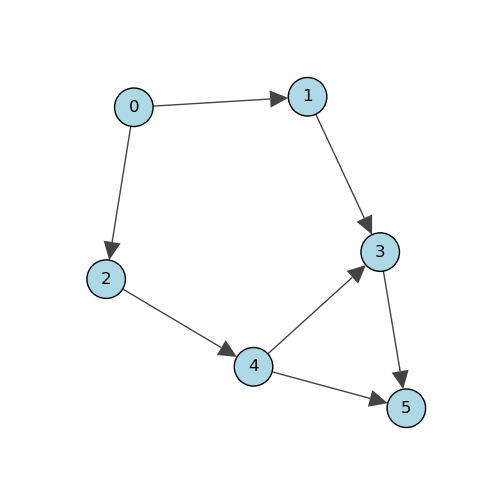
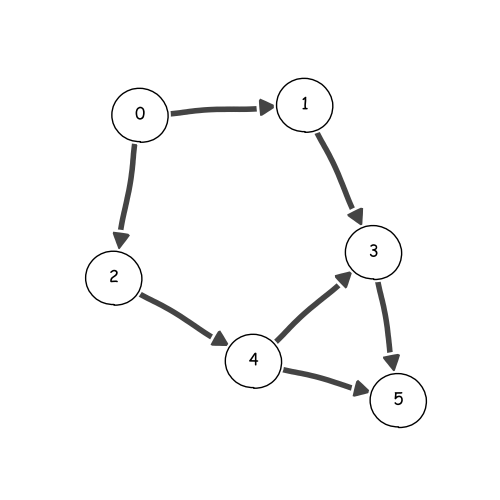
Many fixes

Changed region(s): [[0.15, 0.15, 0.87, 0.87]]

diff --git a/doc/source/tutorials/topological_sort/assets/topological_sort.py b/doc/source/tutorials/topological_sort/assets/topological_sort.py
@@ -3,34 +3,33 @@ import matplotlib.pyplot as plt
 
 
 # generate a directed acyclic graph (DAG)
-g = ig.Graph(edges=[(0, 1), (0, 2), (1, 3), (2, 4), (4, 3), (3, 5), (4, 5)], 
-            directed=True)
+g = ig.Graph(
+    edges=[(0, 1), (0, 2), (1, 3), (2, 4), (4, 3), (3, 5), (4, 5)], 
+    directed=True,
+)
 assert g.is_dag
     
 # g.topological_sorting() returns a list of node IDs.
 # If the given graph is not DAG, the error will occur.
 results = g.topological_sorting(mode='out')
-print('Topological sort of graph g (out):', *results)
+print('Topological sort of g (out):', *results)
 
 results = g.topological_sorting(mode='in')
-print('Topological sort of graph g (in):', *results)
+print('Topological sort of g (in):', *results)
 
 # g.vs[i].indegree() returns the indegree of the node.
 for i in range(g.vcount()):
     print('degree of {}: {}'.format(i, g.vs[i].indegree()))
 
 # visualization
-fig, ax = plt.subplots(figsize=(5, 5))
-ig.plot(
-        g,
-        target=ax,
-        layout='kk',
-        vertex_size=0.2,
-        edge_width=1,
-        vertex_label=range(g.vcount()),
-        vertex_color="lightblue",
-    )
-ax.set_aspect(1)
-
-plt.axis('off')
-plt.show()
+with plt.xkcd():
+    fig, ax = plt.subplots(figsize=(5, 5))
+    ig.plot(
+            g,
+            target=ax,
+            layout='kk',
+            vertex_size=0.3,
+            edge_width=4,
+            vertex_label=range(g.vcount()),
+            vertex_color="white",
+        )

diff --git a/doc/source/tutorials/topological_sort/topological_sort.rst b/doc/source/tutorials/topological_sort/topological_sort.rst
@@ -1,41 +1,44 @@
 .. include:: include/global.rst
 
-.. tutorials-topological-sort
+.. _tutorials-topological-sort:
 
-================
-Topological Sort
-================
+===================
+Topological sorting
+===================
 
-This example demonstrates how to get a topological sorting on a directed acyclic graph (DAG).
-Topological sort of a directed graph is a linear ordering based on the precedence implied by the directed edges and it exists iff the graph doesn't have any directed cycle.
+.. _topological_sorting: https://igraph.org/python/doc/api/igraph._igraph.GraphBase.html#topological_sorting
+.. |topological_sorting| replace:: :meth:`topological_sorting`
 
-We can use :meth:`topological_sortng` to get a topological ordering.
+
+This example demonstrates how to get a topological sorting on a directed acyclic graph (DAG). A topological sorting of a directed graph is a linear ordering based on the precedence implied by the directed edges. It exists iff the graph doesn't have any cycle. In ``igraph``, we can use |topological_sorting|_ to get a topological ordering of the vertices.
 
 .. code-block:: python
 
     import igraph as ig
     
     # generate a directed acyclic graph (DAG)
-    g = ig.Graph(edges=[(0, 1), (0, 2), (1, 3), (2, 4), (4, 3), (3, 5), (4, 5)], 
-                directed=True)
+    g = ig.Graph(
+        edges=[(0, 1), (0, 2), (1, 3), (2, 4), (4, 3), (3, 5), (4, 5)], 
+        directed=True,
+    )
     assert g.is_dag
 
     # g.topological_sorting() returns a list of node IDs
     # If the given graph is not DAG, the error will occur.
     results = g.topological_sorting(mode='out')
-    print('Topological sort of graph g (out):', *results)
+    print('Topological sort of g (out):', *results)
 
     results = g.topological_sorting(mode='in')
-    print('Topological sort of graph g (in):', *results)
+    print('Topological sort of g (in):', *results)
 
-There are two modes of :meth:topological_sorting. 'out' is the default mode which starts from a node with indegree equal to 0. The other mode is 'in', and it similarly starts from a node with outdegree equal to 0.
+There are two modes o |topological_sorting|_. ``'out'`` is the default mode which starts from a node with indegree equal to 0. Vice versa, the mode ``'in'`` starts from a node with outdegree equal to 0.
 
 The output of the code above is:
 
 .. code-block::
 
-    Topological sort of graph g (out): 0 1 2 4 3 5
-    Topological sort of graph g (in): 5 3 1 4 2 0
+    Topological sort of g (out): 0 1 2 4 3 5
+    Topological sort of g (in): 5 3 1 4 2 0
 
 
 We can use :meth:`indegree()` to find the indegree of the node.
@@ -62,15 +65,12 @@ We can use :meth:`indegree()` to find the indegree of the node.
     '''
 
 .. figure:: ./figures/topological_sort.png
-   :alt: The visual representation of a directed acyclic graph(DAG)
+   :alt: Topological sort of a directed acyclic graph (DAG)
    :align: center
 
-   The graph `g`
+   The graph `g` with topological sorting.
 
-- :meth:`topological_sorting` returns a list of node IDs.
-- We can set two modes as a parameter.
-
-For generating the visualization figure, here's the code:
+We can easily plot our topologically sorted graph as follows:
 
 .. code-block:: python
 
@@ -79,20 +79,20 @@ For generating the visualization figure, here's the code:
 
 
     # generate a directed acyclic graph (DAG)
-    g = ig.Graph(edges=[(0, 1), (0, 2), (1, 3), (2, 4), (4, 3), (3, 5), (4, 5)], 
-                directed=True)
+    g = ig.Graph(
+        edges=[(0, 1), (0, 2), (1, 3), (2, 4), (4, 3), (3, 5), (4, 5)], 
+        directed=True,
+    )
     
-    fig, ax = plt.subplots(figsize=(5, 5))
-    ig.plot(
-            g,
-            target=ax,
-            layout='kk',
-            vertex_size=0.2,
-            edge_width=1,
-            vertex_label=range(g.vcount()),
-            vertex_color="lightblue",
-        )
-    ax.set_aspect(1)
-
-    plt.axis('off')
-    plt.show()
+    # visualization (use xkcd style for a different flavor)
+    with plt.xkcd():
+        fig, ax = plt.subplots(figsize=(5, 5))
+        ig.plot(
+                g,
+                target=ax,
+                layout='kk',
+                vertex_size=0.3,
+                edge_width=4,
+                vertex_label=range(g.vcount()),
+                vertex_color="white",
+            )

diff --git a/doc/source/gallery.rst b/doc/source/gallery.rst
@@ -12,12 +12,13 @@ This page contains short examples showcasing the functionality of |igraph|:
  - :ref:`tutorials-betweenness`
  - :ref:`tutorials-bipartite-matching`
  - :ref:`tutorials-bipartite-matching-maxflow`
+ - :ref:`tutorials-cliques`
+ - :ref:`tutorials-maxflow`
  - :ref:`tutorials-random`
  - :ref:`tutorials-ring-animation`
- - :ref:`tutorials-maxflow`
  - :ref:`tutorials-shortest-paths`
- - :ref:`tutorials-cliques`
  - :ref:`tutorials-online-user-actions`
+ - :ref:`tutorials-topological-sort`
  - :ref:`tutorials-visualize-communities`
 
 
@@ -33,6 +34,7 @@ This page contains short examples showcasing the functionality of |igraph|:
    tutorials/maxflow/maxflow
    tutorials/ring_animation/ring_animation
    tutorials/shortest_paths/shortest_paths
-   tutorials/visualize_cliques/visualize_cliques
+   tutorials/topological_sort/topological_sort
    tutorials/online_user_actions/online_user_actions
+   tutorials/visualize_cliques/visualize_cliques
    tutorials/visualize_communities/visualize_communities
